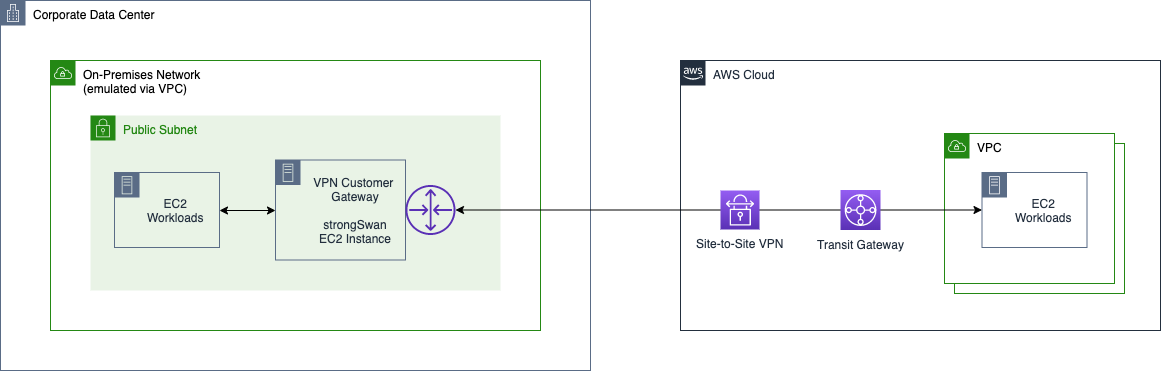
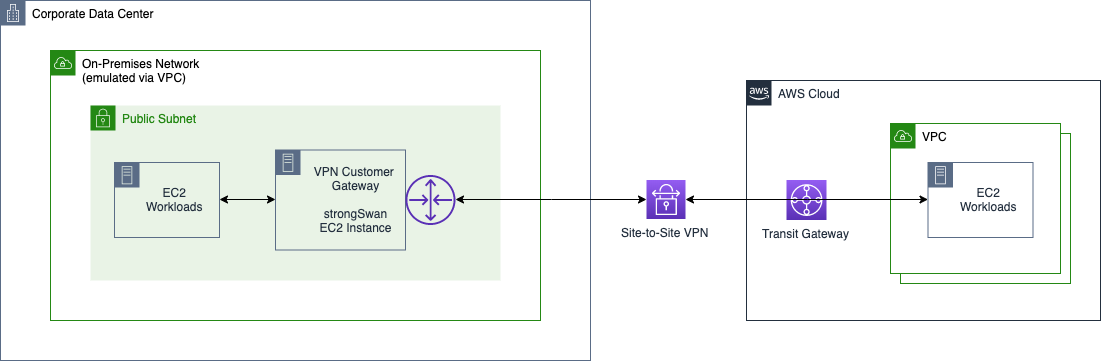
Refined README, added more detailed stack deployment instructions, updated images

diff --git a/README.md b/README.md
@@ -15,15 +15,17 @@ Even if you don’t have a need to demonstrate integration with AWS site-to-site
 
 ## Use Cases and Topologies
 
-The example template can be useful for experimenting, testing, and demonstrating integration scenarios with the AWS Site-to-Site VPN feature and more formally implementing site-to-site VPN connections where the built-in AWS VPN services might not apply.
+The example template can be useful for experimenting, testing, and demonstrating integration scenarios with the AWS Site-to-Site VPN feature and more formally implementing site-to-site VPN connections where use of managed AWS VPN services might not apply.
 
 ### Demonstration and Lab Environments
 
-When you don’t have ready access to either real on-premises VPN hardware or software appliances, this example can be useful in demonstrating how to integrate an on-premises network with AWS networks via AWS site-to-site VPN connections and either AWS Virtual Private Gateways (VPGs) or AWS Transit Gateways (TGWs).
+When you don’t have ready access to either real on-premises VPN hardware or software appliances, this example can be useful in demonstrating how to integrate an on-premises network with AWS networks via AWS site-to-site VPN connections and either AWS Virtual Private Gateways (VGWs) or AWS Transit Gateways (TGWs).
 
 **Site-to-Site VPN with AWS Transit Gateway**
 
 See [Transit Gateway Example: Centralized Router](https://docs.aws.amazon.com/vpc/latest/tgw/transit-gateway-centralized-router.html) for an overview of this topology.
+
+In the following diagram, an EC2 instance deployed to a VPC that is emulating a customer’s on-premises network is running the strongSwan VPN stack and is acting as a VPN Customer Gateway in a site-to-site VPN configuration with an AWS Transit Gateway on the other end of the connection.
 
 <img src="images/site-to-site-vpn-scenarios-tgw.png" alt="Site-to-Site VPN with AWS Transit Gateway" width="800"/>
 
@@ -31,11 +33,13 @@ See [Transit Gateway Example: Centralized Router](https://docs.aws.amazon.com/vp
 
 See [AWS Site-to-Site VPN](https://docs.aws.amazon.com/vpn/latest/s2svpn/SetUpVPNConnections.html) for details on this configuration.
 
+In the following diagram, an EC2 instance deployed to a VPC that is emulating a customer’s on-premises network is running the strongSwan VPN stack and is acting as a VPN Customer Gateway in a site-to-site VPN configuration with an AWS Virtual Private Gateway (VGW) on the other end of the connection.
+
 <img src="images/site-to-site-vpn-scenarios-vgw.png" alt="Site-to-Site VPN with AWS Transit Gateway" width="800"/>
 
 ### Both Ends of a DIY Site-to-Site VPN Connection
 
-The example template can also be used on both ends of a site-to-site VPN connection in scenarios where VPGs and TGWs are not applicable. Normally, you would use either VPC Peering or AWS Transit Gateway when you control the environments on both ends of a site-to-site VPN connection, but there may be circumstances in which you want to manage the VPN gateway on both ends.
+The example template can also be used to establish a VPN Gateway on both ends of a site-to-site VPN connection in scenarios where VGWs and TGWs are not applicable. Normally, you would use either VPC Peering or AWS Transit Gateway when you control the environments on both ends of a site-to-site VPN connection, but there may be circumstances in which you want to manage the VPN gateway on both ends.
 
 <img src="images/site-to-site-vpn-scenarios-diy.png" alt="Site-to-Site VPN with AWS Transit Gateway" width="800"/>
 
@@ -67,27 +71,39 @@ Since VPN connections typically occur over the public Internet, you'll need to h
 
 #### Option 1: Deploy VPN Gateway in Public Subnet and Use Elastic IP Address
 
-Before deploying this stack, create an EIP and obtain its allocation ID so that you can pass it as a parameter to the CloudFormation stack through which the VPN gateway will be created.  When deploying this stack, you set the parameter `pUseElasticIp` to `true` and supply a value for the `pEipAllocationId` parameter.
+Before deploying this stack, create an Elastic IP (EIP) address and obtain its allocation ID so that you can pass it as a parameter to the CloudFormation stack through which the VPN gateway will be created.  When deploying this stack, you set the parameter `pUseElasticIp` to `true` and supply a value for the `pEipAllocationId` parameter.
 
 #### Option 2: Deploy VPN gateway in Private Subnet and Use a NAT Gateway
 
-In this case, you discover the public IP address of the NAT Gateway and use it when configuring the remote side of the VPN connection.  When deploying this stack, you accept the default `false` setting for the `pUseElasticIp` parameter. Since the local side of the site-to-site VPN initiates the connection, the local strongSwan VON gateway will initiate the connection through the NAT Gateways public IP address.
+In this case, you discover the public IP address of the NAT Gateway and use it when configuring the remote side of the VPN connection.  When deploying this stack, you accept the default `false` setting for the `pUseElasticIp` parameter. Since the local side of the site-to-site VPN initiates the connection, the local strongSwan VPN gateway will initiate the connection through the NAT Gateways public IP address.
 
 ### 2. Determine VPN Tunnel Configuration Settings
 
-When using either AWS VPGs or TGWs for the remote end of the site-to-site VPN connection, a site-to-site VPN connection resource will be established in AWS on the remote site. Within the site-to-site VPN connection resource on the remote site, you can download a VPN configuration file that will provide you with much of the data required to deploy the local VPN gateway. In the AWS management console, see `VPC -> Site-to-Site VPN Connections`, select the connection of interest, click `Download` and select the `Generic` option for `Vendor` and download the configuration file.
+When using either AWS VGWs or TGWs for the remote end of the site-to-site VPN connection, a site-to-site VPN connection resource will be established in AWS on the remote site. Within the site-to-site VPN connection resource on the remote site, you can download a VPN configuration file that will provide you with much of the data required to deploy the local VPN gateway. In the AWS management console, see `VPC -> Site-to-Site VPN Connections`, select the connection of interest, click `Download` and select the `Generic` option for `Vendor` and download the configuration file.
 
 Review the data in this file in preparation for passing it as parameters to the CloudFormation stack in the next step.
 
 ### 3. Deploy VPN Gateway Stack
 
-In this step you'll create a CloudFormation stack using the [`vpn-gateway-strongswan.yml`](./vpn-gateway-strongswan.yml) template and configuration data obtained from the remote site's Site-to-Site VPN Connection resource.
+In this step you'll create a CloudFormation stack using the [`vpn-gateway-strongswan.yml`](https://raw.githubusercontent.com/aws-samples/vpn-gateway-strongwswan/master/vpn-gateway-strongswan.yml) template and configuration data obtained from the remote site's Site-to-Site VPN Connection resource.
 
-* Use the CloudFormation template to deploy a VPN gateway stack in a public subnet based on the [Parameters](#parameters) described below.
+* Use the CloudFormation template to deploy a VPN gateway stack in an appropriate subnet based on the [Parameters](#parameters) described below.
+  * Use the [AWS Management Console](https://console.aws.amazon.com/cloudformation/home) to access the CloudFormation service.
+  * Ensure that the desired AWS region is selected.
+  * Click "Create Stack" and select "With new resources".
+  * Click "Upload a template file"
+  * Use your browser to download the [`vpn-gateway-strongswan.yml`](https://raw.githubusercontent.com/aws-samples/vpn-gateway-strongwswan/master/vpn-gateway-strongswan.yml) CloudFormation template file to your local computer.
+  * Click "Choose file" to select the CloudFormation template file that you downloaded.
+  * Click "Next" to "Specify stack details".
+  * Enter a name for your new CloudFormation stack. For example, "vpn-gateway".
+  * Override and/or fill in the required parameters.  See [Parameters](#parameters) for details.
+  * Click "Next" to "Configure stack options".
+  * Click "Next" to review your stack settings.
+  * Click "Create stack".
 * Wait for creation of the stack to complete. Since the template uses a wait condition, the stack won't complete until strongSwan and other components have been configured and started.
 * Wait for several minutes after stack creation completes. Then monitor the Site-to-Site VPN Connection on the remote site to confirm that the two VPN tunnels have progressed from the `DOWN` state to the `UP` state.  If the VPN gateway configuration is correct, Tunnel 1 will come up first followed several minutes later by Tunnel 2.
 
-If the tunnels have not come up 3-5 minutes after creation of the VPN gateway stack completed, then see the Troubleshooting section below.
+If the tunnels have not come up 3-5 minutes after creation of the VPN gateway stack completed, then see the [Troubleshooting](#troubleshooting) section below.
 
 ### 4. Ensure Routing Tables and EC2 Security Groups Are in Place
 
@@ -189,7 +205,7 @@ After deploying the new VPN gateway stack, you will need to ensure that any loca
 
 ### Masking Source IP Addresses
 
-If you'd like the VPC in which the strongSwan VPN gateway is running to forward traffice from the VPN connection to either other VPCs via VPC Peering or onward via gateways such an Internet Gateway to NAT Gateway, you'll need to configure the VPN gateway to mask the original source IP address by using the VPN gateway's IP address.
+If you'd like the VPC in which the strongSwan VPN gateway is running to forward traffic from the VPN connection to either other VPCs via VPC Peering or onward via gateways such an Internet Gateway to NAT Gateway, you'll need to configure the VPN gateway to mask the original source IP address by using the VPN gateway's IP address.
 
 You can implement source network IP masking via an `iptables` command.  For example, the following command when run on the strongSwan VPN gatewy will mask the source IP address only for traffic whose destination IP address does not match the specified network. e.g. It will mask traffic destined for the Internet, but not for the local network. Presence of the `!` argument prior to the `-d` argument ensures that the all destinations other than the stated network will be subject to the masking rule.
 
